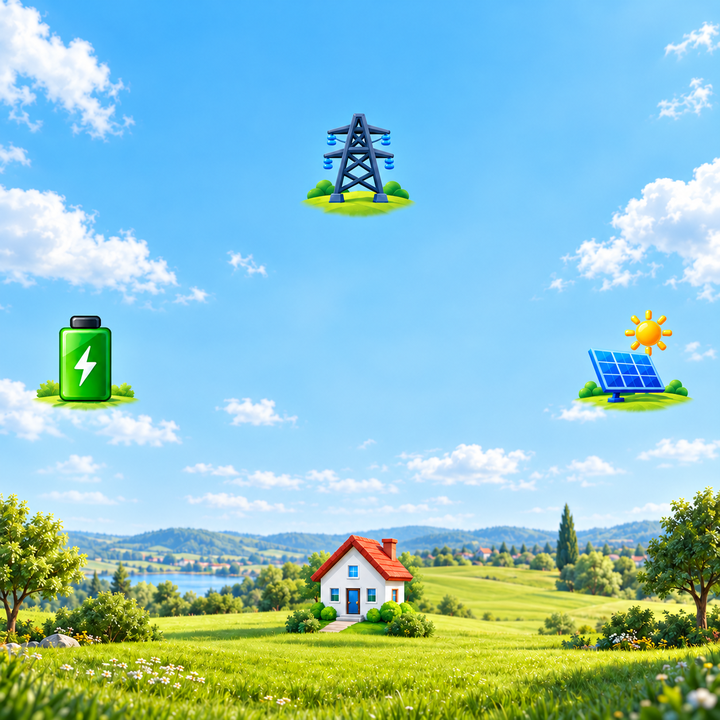
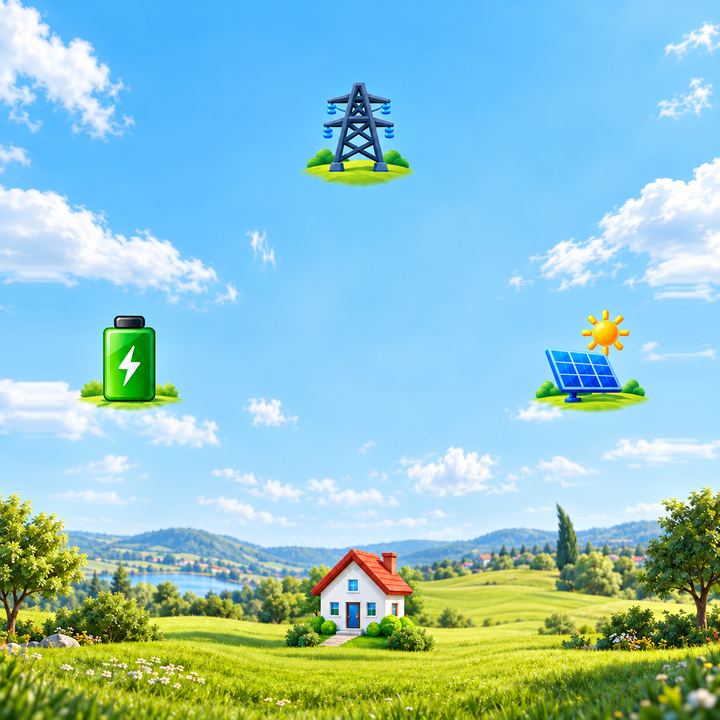
Align day and night artwork with equal radial spacing and flow lengths
Use a shared 230px node distance, 60px rings and 170px paths. Align both 720x720 backgrounds and verify actual LVGL geometry across mode switches.

diff --git a/firmware/slave-waveshare-4b/simulator/simulator.c b/firmware/slave-waveshare-4b/simulator/simulator.c
@@ -135,6 +135,34 @@ static int self_test(void)
     sample = decoded;
     step(33);
     CHECK(save("slave-4b-day.ppm") == 0);
+    /* A tényleges LVGL körök helye és mérete mindkét váltási irányban állandó. */
+    lv_obj_t *rings[4];
+    lv_area_t ring_areas[4];
+    unsigned ring_count = 0;
+    lv_obj_t *screen = lv_screen_active();
+    for (uint32_t i = 0; i < lv_obj_get_child_count(screen); i++)
+    {
+        lv_obj_t *child = lv_obj_get_child(screen, i);
+        if (lv_obj_get_style_border_width(child, LV_PART_MAIN) == 3 &&
+            lv_obj_get_width(child) == lv_obj_get_height(child))
+        {
+            CHECK(ring_count < 4);
+            rings[ring_count] = child;
+            lv_obj_get_coords(child, &ring_areas[ring_count]);
+            int cx = lv_obj_get_x(child) + lv_obj_get_width(child) / 2;
+            int cy = lv_obj_get_y(child) + lv_obj_get_height(child) / 2;
+            CHECK(abs(cx - 360) + abs(cy - 360) == 230);
+            CHECK(cx == 360 || cy == 360);
+            CHECK(lv_obj_get_width(child) == 120);
+            /* A kör előtti testvér a hozzá vezető energiaút. */
+            CHECK(i > 0);
+            lv_obj_t *path = lv_obj_get_child(screen, i - 1);
+            int pw = lv_obj_get_width(path), ph = lv_obj_get_height(path);
+            CHECK((pw == 170 && ph == 4) || (pw == 4 && ph == 170));
+            ring_count++;
+        }
+    }
+    CHECK(ring_count == 4);
     uint64_t day = hash();
     step(200);
     CHECK(hash() != day); /* A mozgó pontok valóban változtatják a renderelt képet. */
@@ -142,6 +170,18 @@ static int self_test(void)
     step(33);
     CHECK(save("slave-4b-night.ppm") == 0);
     CHECK(hash() != day);
+    for (int mode = 0; mode < 3; mode++)
+    {
+        scene(mode != 1);
+        step(33);
+        for (unsigned i = 0; i < ring_count; i++)
+        {
+            lv_area_t area;
+            lv_obj_get_coords(rings[i], &area);
+            CHECK(area.x1 == ring_areas[i].x1 && area.y1 == ring_areas[i].y1 &&
+                  area.x2 == ring_areas[i].x2 && area.y2 == ring_areas[i].y2);
+        }
+    }
     /* Opcionális időjárás: a hiányzó mező ne hagyjon ott régi ikont vagy értéket. */
     sample.temperature_valid = false;
     sample.wind_speed_valid = false;

diff --git a/firmware/slave-waveshare-4b/ui/slave_4b_ui.c b/firmware/slave-waveshare-4b/ui/slave_4b_ui.c
@@ -74,12 +74,10 @@ static void diagnostics_toggle(lv_event_t *event)
 
 static void layout(bool night)
 {
-    /* A két elfogadott illusztráció csomópontjai kissé eltérő helyen vannak. */
-    static const int day[4][3] = {{360, 161, 61}, {86, 360, 58},
-                                  {633, 360, 58}, {360, 576, 63}};
-    static const int dark[4][3] = {{360, 140, 57}, {90, 353, 55},
-                                   {629, 353, 57}, {360, 568, 60}};
-    const int (*positions)[3] = night ? dark : day;
+    /* A háttérváltozatok közös geometriája miatt témaváltáskor sem a körök,
+     * sem a hozzájuk igazított utak és feliratok nem mozdulhatnak el. */
+    static const int positions[4][3] = {{360, 130, 60}, {130, 360, 60},
+                                        {590, 360, 60}, {360, 590, 60}};
     lv_image_set_src(background, night ? &slave_4b_night : &slave_4b_day);
     for (int i = 0; i < 4; i++)
     {
@@ -102,8 +100,8 @@ static void layout(bool night)
         lv_obj_set_style_text_color(node->name, lv_color_hex(night ? 0xF5FAFF : 0x00183D), 0);
     }
     /* A rendszertéma vékony, alulról felfelé töltődő SOC sávja. */
-    lv_obj_set_pos(soc, night ? 68 : 64, night ? 327 : 332);
-    lv_obj_set_pos(battery_detail, 8, night ? 469 : 478);
+    lv_obj_set_pos(soc, 108, 332);
+    lv_obj_set_pos(battery_detail, 52, 478);
     lv_color_t text = lv_color_hex(night ? 0xF5FAFF : 0x00183D);
     lv_obj_set_style_text_color(root, text, 0);
     last_night = night;

diff --git a/firmware/slave-waveshare-4b/design/README.md b/firmware/slave-waveshare-4b/design/README.md
@@ -14,18 +14,23 @@ felhasználó jóváhagyásával a háttér részei.
 | SOC | Vékony függőleges, alulról felfelé töltődő LVGL sáv az akku bal oldalán |
 | Állapot | PIN-pad, keresés/lejárt adat, diagnosztika |
 
-A két 1254×1254 PNG-t a renderer 720×720-ra méretezi. Nincs háttérfátyol vagy
+A két PNG natív 720×720 felbontású. Nincs háttérfátyol vagy
 adatkártya. A PIN és a kérhető diagnosztika külön állapotfelület.
 
 | Csomópont közepe | Nappal | Éjjel |
 | --- | --- | --- |
-| Hálózat | 360,161 | 360,140 |
-| Akkumulátor | 86,360 | 90,353 |
-| Napelem | 633,360 | 629,353 |
-| Ház | 360,576 | 360,568 |
+| Hálózat | 360,130 | 360,130 |
+| Akkumulátor | 130,360 | 130,360 |
+| Napelem | 590,360 | 590,360 |
+| Ház | 360,590 | 360,590 |
 | Hub | 360,360 | 360,360 |
 
-A koordináták az illusztrációhoz igazodnak. Hálózat/ház adatai jobbra,
+A két háttér illusztrációinak helye és mérete a nappali referenciához igazodik.
+Minden ikon középpontja 230 pixelre van a hub közepétől. A körök sugara
+egységesen 60 pixel, az energiautak hossza a hub közepétől a kör széléig
+170 pixel. A geometria mindkét módban azonos.
+A SOC sáv és az akku részletes felirata sem mozdul el módváltáskor.
+Hálózat/ház adatai jobbra,
 akku/napelem adatai alul. Hub: 42×42 pixel. A fő Rendszer téma közös
 fázismodellje adja a folyamatos, teljesítményarányos animációt.
 
